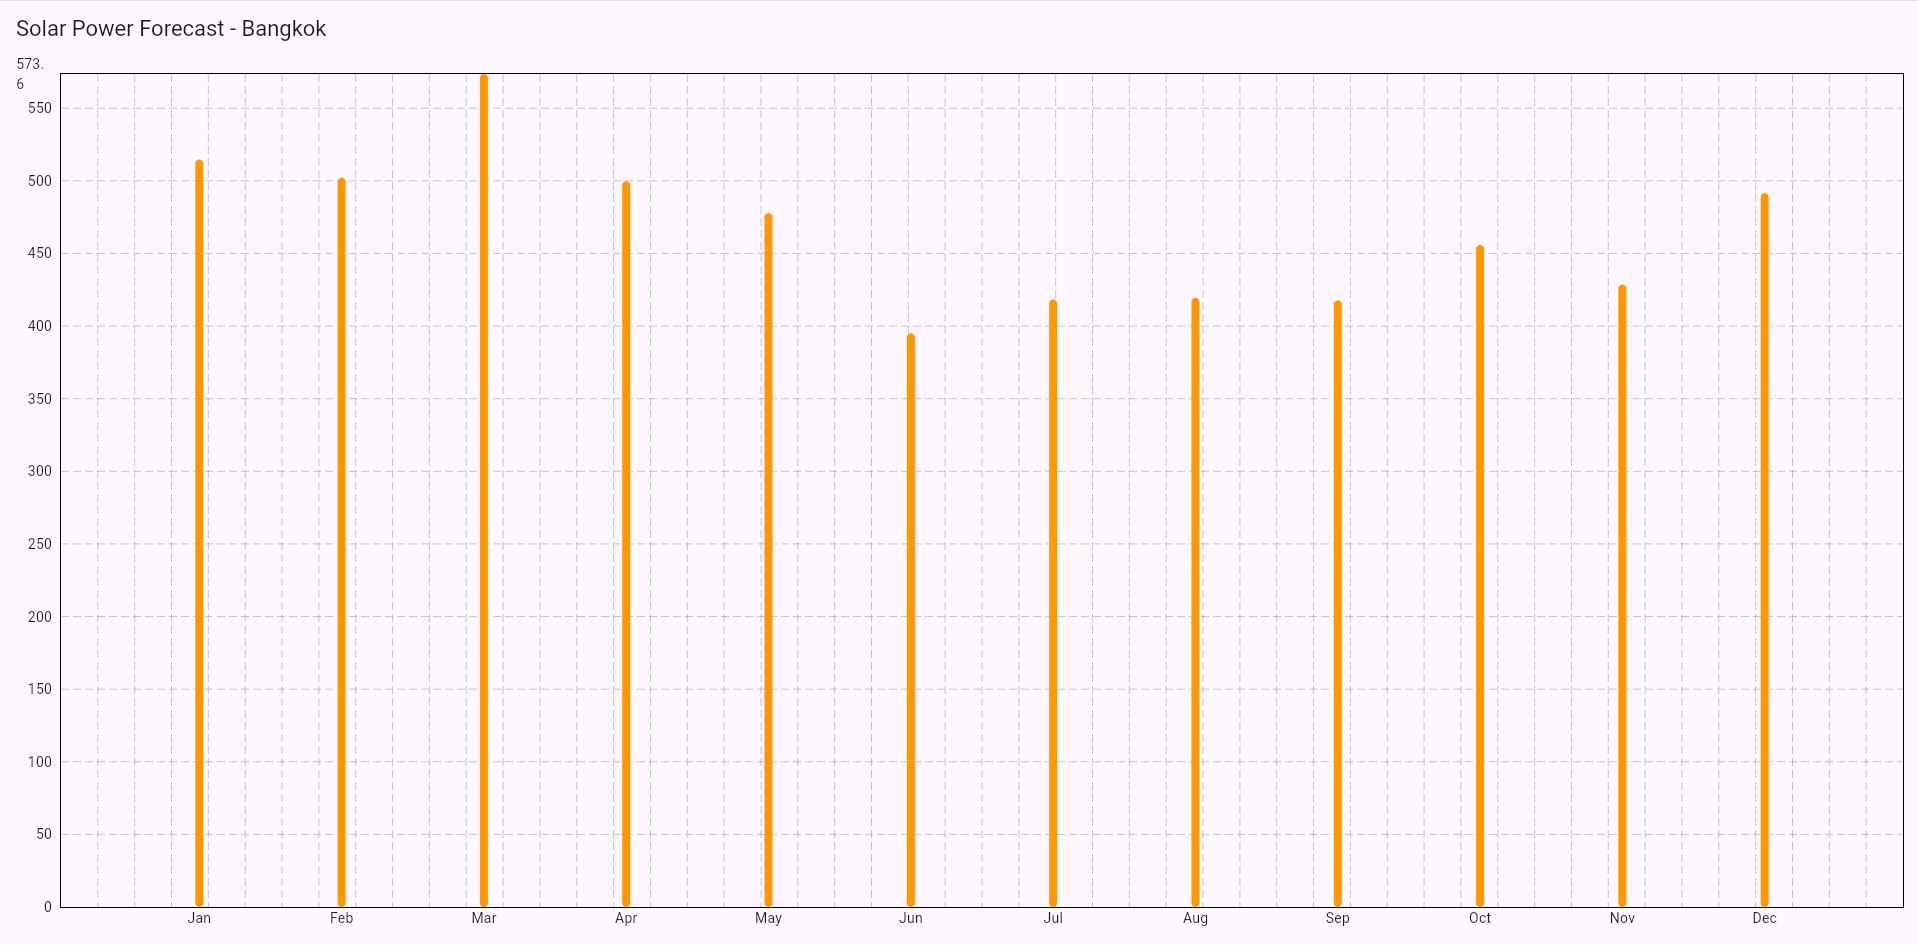
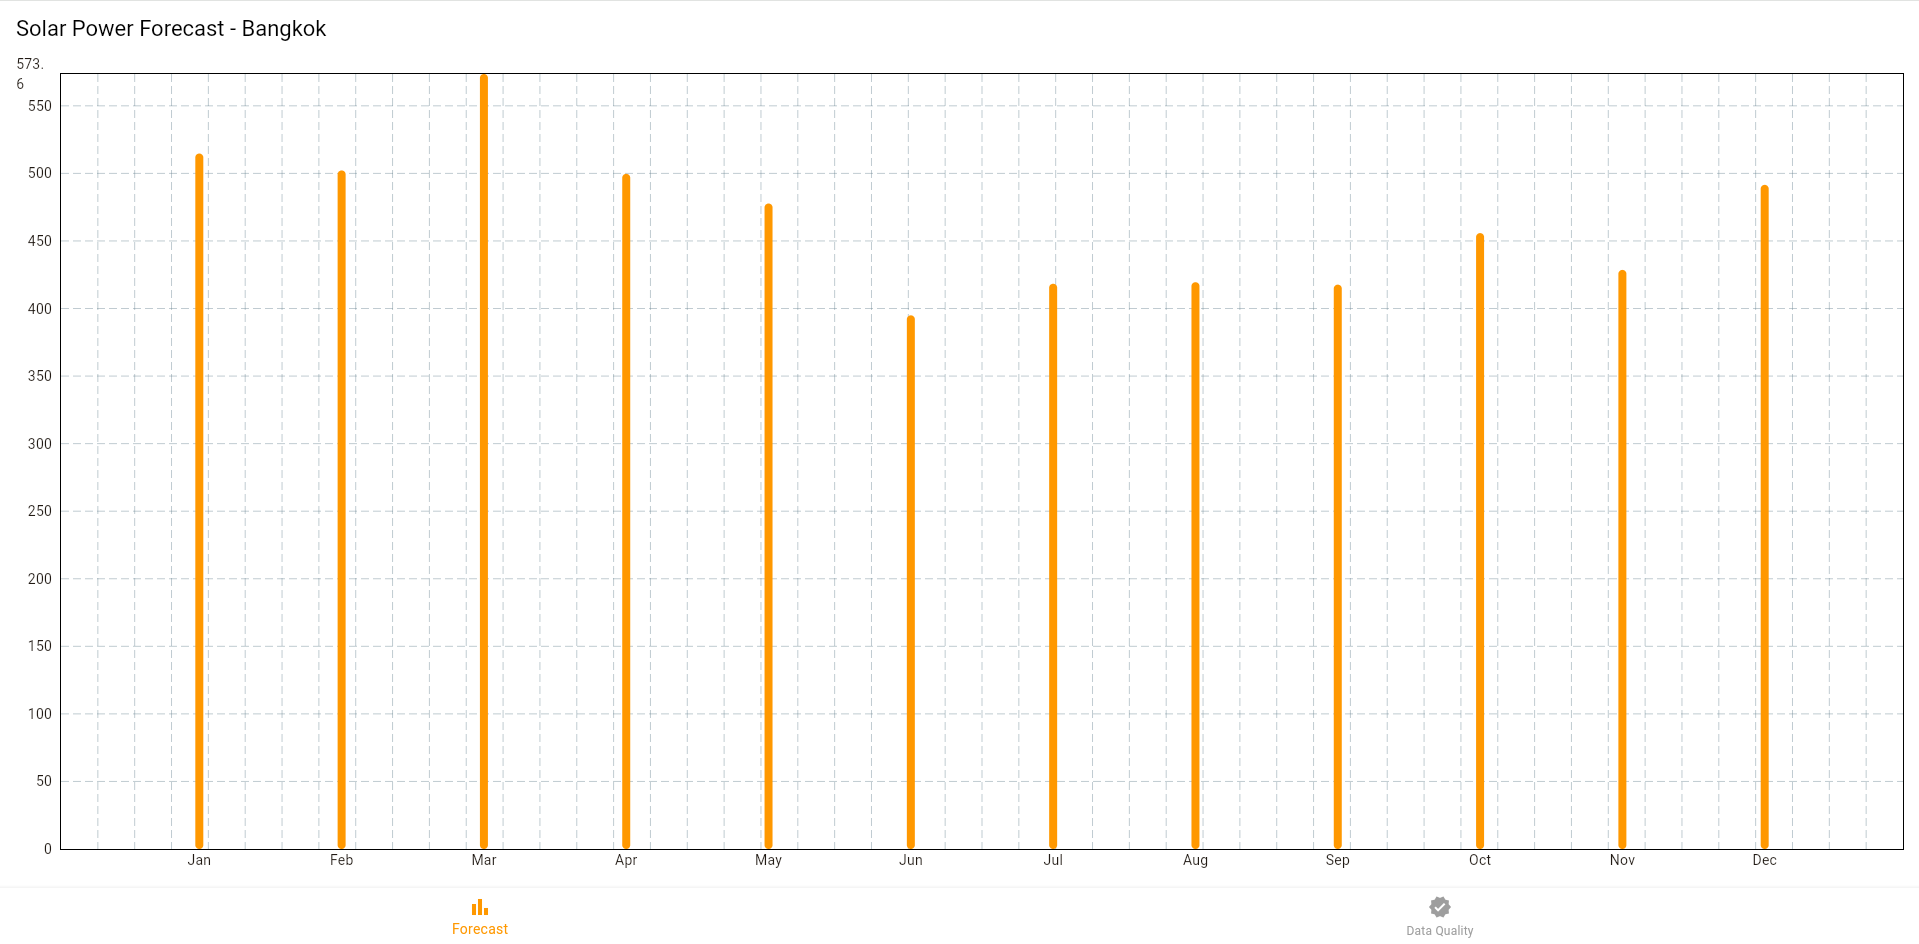
Update theme, quality scorecard chart readability, and README

diff --git a/lib/main.dart b/lib/main.dart
@@ -1,5 +1,4 @@
 import 'dart:convert';
-
 import 'package:flutter/material.dart';
 import 'package:flutter/services.dart';
 import 'package:fl_chart/fl_chart.dart';
@@ -13,9 +12,69 @@ class MyApp extends StatelessWidget {
 
   @override
   Widget build(BuildContext context) {
-    return MaterialApp(title: 'Solar Forecast',debugShowCheckedModeBanner: false, home: const SolarChartPage());
+    return MaterialApp(
+      title: 'Solar Forecast',
+      debugShowCheckedModeBanner: false,
+      theme: ThemeData(
+        scaffoldBackgroundColor: Colors.white,
+        appBarTheme: const AppBarTheme(
+          backgroundColor: Colors.white,
+          foregroundColor: Colors.black,
+          elevation: 0,
+        ),
+        bottomNavigationBarTheme: const BottomNavigationBarThemeData(
+          backgroundColor: Colors.white,
+          selectedItemColor: Colors.orange,
+          unselectedItemColor: Colors.grey,
+        ),
+        colorScheme: ColorScheme.fromSeed(
+          seedColor: Colors.orange,
+          surface: Colors.white,
+        ),
+      ),
+      home: const HomePage(),
+    );
   }
 }
+
+class HomePage extends StatefulWidget {
+  const HomePage({super.key});
+
+  @override
+  State<HomePage> createState() => _HomePageState();
+}
+
+class _HomePageState extends State<HomePage> {
+  int _selectedIndex = 0;
+
+  final List<Widget> _pages = const [
+    SolarChartPage(),
+    QualityScorecardPage(),
+  ];
+
+  @override
+  Widget build(BuildContext context) {
+    return Scaffold(
+      body: _pages[_selectedIndex],
+      bottomNavigationBar: BottomNavigationBar(
+        currentIndex: _selectedIndex,
+        onTap: (index) => setState(() => _selectedIndex = index),
+        items: const [
+          BottomNavigationBarItem(
+            icon: Icon(Icons.bar_chart),
+            label: 'Forecast',
+          ),
+          BottomNavigationBarItem(
+            icon: Icon(Icons.verified),
+            label: 'Data Quality',
+          ),
+        ],
+      ),
+    );
+  }
+}
+
+// ===================== FORECAST PAGE =====================
 
 class SolarChartPage extends StatefulWidget {
   const SolarChartPage({super.key});
@@ -34,9 +93,8 @@ class _SolarChartPageState extends State<SolarChartPage> {
   }
 
   Future<void> loadData() async {
-    final String response = await rootBundle.loadString(
-      'assets/solar_forecast.json',
-    );
+    final String response =
+        await rootBundle.loadString('assets/solar_forecast.json');
     final data = json.decode(response);
     setState(() {
       solarData = data;
@@ -88,6 +146,138 @@ class _SolarChartPageState extends State<SolarChartPage> {
                   ),
                 ),
               ),
+            ),
+    );
+  }
+}
+
+// ===================== QUALITY SCORECARD PAGE =====================
+
+class QualityScorecardPage extends StatefulWidget {
+  const QualityScorecardPage({super.key});
+
+  @override
+  State<QualityScorecardPage> createState() => _QualityScorecardPageState();
+}
+
+class _QualityScorecardPageState extends State<QualityScorecardPage> {
+  List<dynamic> qualityData = [];
+
+  @override
+  void initState() {
+    super.initState();
+    loadData();
+  }
+
+  Future<void> loadData() async {
+    final String response =
+        await rootBundle.loadString('assets/quality_log.json');
+    final data = json.decode(response);
+    setState(() {
+      qualityData = data;
+    });
+  }
+
+  Color gradeColor(String grade) {
+    switch (grade) {
+      case 'A':
+        return Colors.green;
+      case 'B':
+        return Colors.lightGreen;
+      case 'C':
+        return Colors.orange;
+      case 'D':
+        return Colors.deepOrange;
+      default:
+        return Colors.red;
+    }
+  }
+
+  @override
+  Widget build(BuildContext context) {
+    return Scaffold(
+      appBar: AppBar(title: const Text('Data Quality Scorecard')),
+      body: qualityData.isEmpty
+          ? const Center(child: CircularProgressIndicator())
+          : Column(
+              children: [
+                Padding(
+                  padding: const EdgeInsets.all(16.0),
+                  child: SizedBox(
+                    height: 250,
+                    child: LineChart(
+                      LineChartData(
+                        minY: 0,
+                        maxY: 100,
+                        titlesData: FlTitlesData(
+                          bottomTitles: AxisTitles(
+                            sideTitles: SideTitles(
+                              showTitles: true,
+                              interval: 1,
+                              getTitlesWidget: (value, meta) {
+                                int index = value.round();
+                                if (index != value) return const Text('');
+                                if (index >= 0 && index < qualityData.length) {
+                                  String date = qualityData[index]['date'];
+                                  return Padding(
+                                    padding: const EdgeInsets.only(top: 8.0),
+                                    child: Text(
+                                      date.substring(5),
+                                      style: const TextStyle(fontSize: 11),
+                                    ),
+                                  );
+                                }
+                                return const Text('');
+                              },
+                            ),
+                          ),
+                          topTitles: const AxisTitles(
+                            sideTitles: SideTitles(showTitles: false),
+                          ),
+                          rightTitles: const AxisTitles(
+                            sideTitles: SideTitles(showTitles: false),
+                          ),
+                        ),
+                        lineBarsData: [
+                          LineChartBarData(
+                            spots: qualityData.asMap().entries.map((entry) {
+                              int index = entry.key;
+                              var day = entry.value;
+                              return FlSpot(index.toDouble(), day['score']);
+                            }).toList(),
+                            isCurved: false,
+                            color: Colors.blue,
+                            barWidth: 3,
+                            dotData: const FlDotData(show: true),
+                          ),
+                        ],
+                      ),
+                    ),
+                  ),
+                ),
+                const Divider(),
+                Expanded(
+                  child: ListView.builder(
+                    itemCount: qualityData.length,
+                    itemBuilder: (context, index) {
+                      final day = qualityData[qualityData.length - 1 - index];
+                      return ListTile(
+                        leading: CircleAvatar(
+                          backgroundColor: gradeColor(day['grade']),
+                          child: Text(
+                            day['grade'],
+                            style: const TextStyle(color: Colors.white),
+                          ),
+                        ),
+                        title: Text(day['date']),
+                        subtitle: Text(
+                            '${day['valid_count']}/${day['total_count']} records passed'),
+                        trailing: Text('${day['score']}%'),
+                      );
+                    },
+                  ),
+                ),
+              ],
             ),
     );
   }

diff --git a/README.md b/README.md
@@ -1,25 +1,33 @@
 # Solar Forecast App
 
-A Flutter app that visualizes monthly solar power forecast data as an interactive bar chart — the final "view" layer in a three-part pipeline that goes from raw API data to something a user can actually read.
+A Flutter app with two views: a monthly solar power forecast chart, and a data quality scorecard that tracks how much of each day's pipeline data passed validation — the final "view" layer in a pipeline that goes from raw API data to something a user can actually read and trust.
 
 ## What it does
 
-Loads a bundled JSON file (`assets/solar_forecast.json`) containing 12 months of forecasted AC power output for a solar installation in Bangkok, and renders it as a bar chart using `fl_chart` — one bar per month, labeled with month names on the x-axis.
+**Forecast tab** — Loads a bundled JSON file (`assets/solar_forecast.json`) containing 12 months of forecasted AC power output for a solar installation in Bangkok, and renders it as a bar chart using `fl_chart`.
+
+**Data Quality tab** — Loads `assets/quality_log.json`, a daily log produced by the [Solar Data ETL Pipeline](../solar-etl-pipeline)'s data contract validation. Renders a line chart of each day's quality score (0-100%) plus a list of daily entries with letter grades (A-F) and a pass/fail record count, so a data quality issue is visible at a glance instead of buried in a log file.
 
 ## How it fits with the other projects
 
 This app is the last stage of a 3-part pipeline:
 
 ```
-Solar Data ETL Pipeline  →  solar_forecast.json  →  Solar Forecast App (this repo)
-   (API → SQLite → S3)         (exported data)          (Flutter chart)
+Solar Data ETL Pipeline           →  solar_forecast.json  →  Solar Forecast App (this repo)
+(API → SQLite → S3, with a         →  quality_log.json     →  Forecast tab + Data Quality tab
+ data contract + chaos-tested
+ validation on every run)
 ```
 
-The JSON file consumed here is generated by the [Solar Data ETL Pipeline](../solar-etl-pipeline), which pulls monthly forecast data from the NREL PVWatts API. Right now the app reads a static copy of that JSON bundled as a Flutter asset; the data isn't pulled live from the pipeline's output.
+The JSON files consumed here are generated by the [Solar Data ETL Pipeline](../solar-etl-pipeline): `solar_forecast.json` holds the forecast data, and `quality_log.json` holds each day's validation results (records passed/failed, score, grade). Right now the app reads static copies of both bundled as Flutter assets; neither is pulled live from the pipeline's output.
 
-## Screenshot
+## Screenshots
 
+**Forecast tab**
 ![Solar Forecast bar chart](screenshot.png)
+
+**Data Quality tab**
+![Data Quality Scorecard](screenshot2.png)
 
 ## Tech stack
 
@@ -28,10 +36,11 @@ Flutter · Dart · fl_chart
 ## Setup
 
 1. `flutter pub get`
-2. Make sure `assets/solar_forecast.json` is present and declared under `flutter: assets:` in `pubspec.yaml`
+2. Make sure `assets/solar_forecast.json` and `assets/quality_log.json` are present and declared under `flutter: assets:` in `pubspec.yaml`
 3. `flutter run`
 
 ## What I'd improve next
 
-- Pull `solar_forecast.json` from the pipeline's AWS S3 bucket at runtime (`https://<bucket>.s3.<region>.amazonaws.com/solar_forecast/<date>.csv`) instead of bundling a static copy, so the chart always reflects the latest pipeline run instead of whatever was bundled at build time
+- Pull both JSON files from the pipeline's AWS S3 bucket at runtime instead of bundling static copies, so both tabs always reflect the latest pipeline run instead of whatever was bundled at build time
 - Add a pull-to-refresh gesture to trigger that fetch
+- Fix the duplicate x-axis date labels on the quality chart when there are more days of history than fit comfortably
